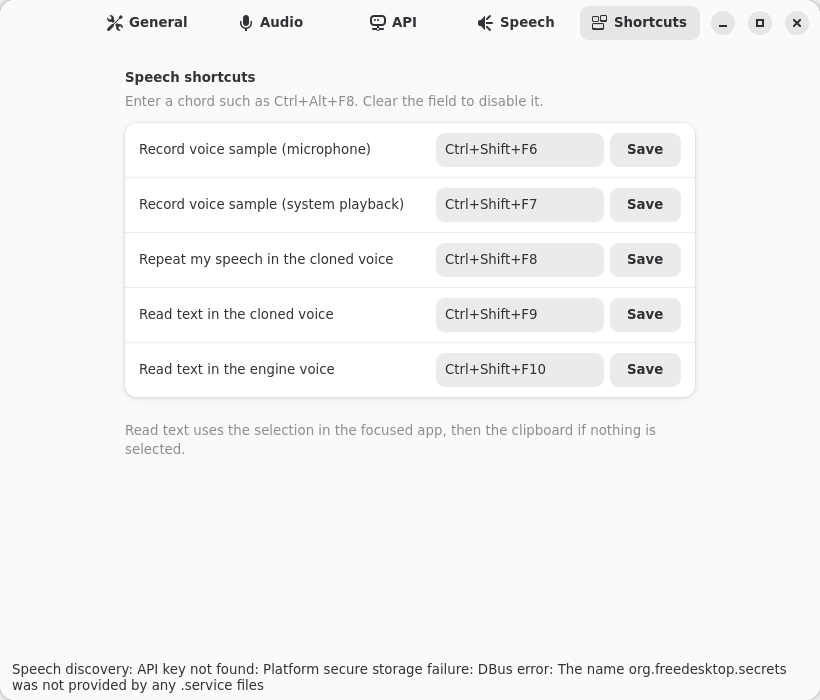
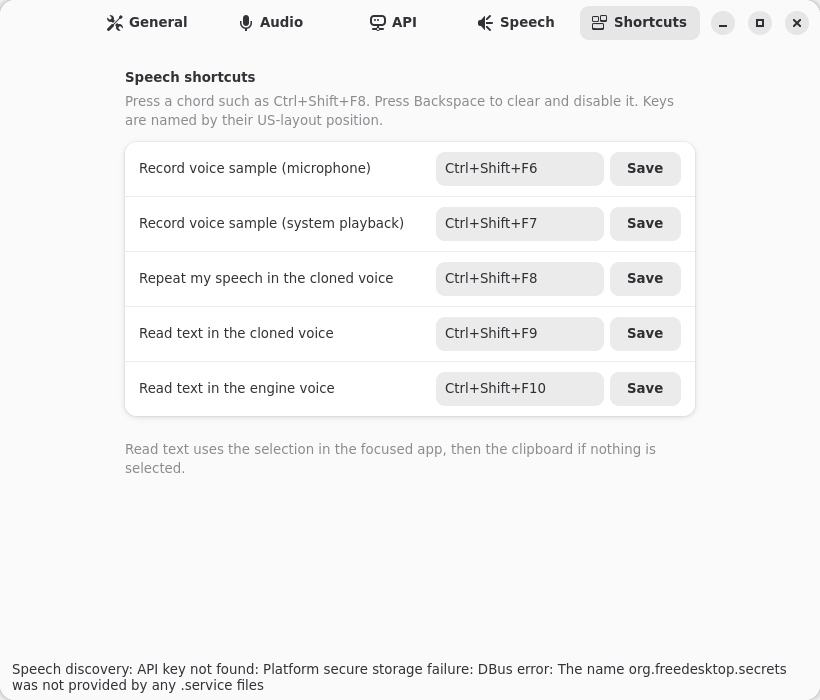
gnome: settings review fixes Shortcut hints say to press Ctrl+Shift+F8 (Ctrl+Alt+F-keys switch VTs) and that keys are named by US-layout position; Shift+Tab moves focus; a load started for an earlier daemon stops, and a failed load shows the error instead of empty pages; waveform frames are dropped 

diff --git a/apps/gnome-settings/src/ui/mod.rs b/apps/gnome-settings/src/ui/mod.rs
@@ -75,6 +75,8 @@ pub(super) struct Ui {
     /// Set while widgets are filled from settings, so their change handlers stay quiet.
     updating: Cell<bool>,
     first_presence: Cell<bool>,
+    /// Counts daemon arrivals and departures; a `load` started for an earlier one stops.
+    presence: Cell<u64>,
     screenshots: Option<PathBuf>,
     general: general::Page,
     audio: audio::Page,
@@ -153,6 +155,7 @@ impl Ui {
             field_focus: Cell::new(false),
             updating: Cell::new(false),
             first_presence: Cell::new(true),
+            presence: Cell::new(0),
             screenshots,
             general,
             audio,
@@ -248,8 +251,11 @@ impl Ui {
         };
         *self.client.borrow_mut() = Some(client);
         while let Some(message) = incoming.recv().await {
+            if let Incoming::Present(_) = message {
+                self.presence.set(self.presence.get() + 1);
+            }
             match message {
-                Incoming::Present(true) => spawn(self.clone().load()),
+                Incoming::Present(true) => spawn(self.clone().load(self.presence.get())),
                 Incoming::Present(false) => {
                     self.show_absent();
                     if self.first_presence.replace(false) {
@@ -274,24 +280,37 @@ impl Ui {
         }
     }
 
-    async fn load(self: Rc<Self>) {
+    async fn load(self: Rc<Self>, presence: u64) {
         self.first_presence.set(false);
         let Some(client) = self.client() else { return };
+        let current = || self.presence.get() == presence;
         let mut settings = client.get_settings().await;
         for _ in 0..50 {
-            if !matches!(&settings, Err(error) if error == STARTING) {
+            if !current() || !matches!(&settings, Err(error) if error == STARTING) {
                 break;
             }
             glib::timeout_future(Duration::from_millis(200)).await;
             settings = client.get_settings().await;
         }
+        if !current() {
+            return;
+        }
         match settings {
             Ok(settings) => *self.settings.borrow_mut() = settings,
-            Err(error) => self.set_status(&error),
+            // Pages filled from an empty cache would offer defaults as the saved values.
+            Err(error) => {
+                self.show_absent();
+                self.start.set_sensitive(false);
+                self.absent.set_description(Some(&error));
+                return;
+            }
         }
         self.drafts.borrow_mut().clear();
         self.catalog.borrow_mut().invalidate();
         let status = client.status().await.unwrap_or_default();
+        if !current() {
+            return;
+        }
         self.preview.set(status == PREVIEW);
         if !status.is_empty() && status != "ok" {
             self.set_status(&status);
@@ -303,6 +322,9 @@ impl Ui {
         shortcuts::fill(&self);
         api::refresh_hint(&self).await;
         audio::refresh_microphones(&self).await;
+        if !current() {
+            return;
+        }
         self.root.set_visible_child_name("settings");
         self.switcher.set_visible(true);
         self.update_capture();

diff --git a/apps/gnome-settings/src/form.rs b/apps/gnome-settings/src/form.rs
@@ -103,12 +103,13 @@ pub(crate) fn languages_summary(settings: &Settings) -> String {
     }
 }
 
-/// The selected languages after checking or unchecking one; a new one goes last.
-pub(crate) fn toggle_language(values: &[String], code: &str, on: bool) -> Vec<String> {
-    let mut values: Vec<String> = values.iter().filter(|v| *v != "auto" && *v != code).cloned().collect();
-    if on {
-        values.push(code.into());
-    }
+/// The selected languages after a change in the list, ordered as Windows does: languages
+/// hidden by the search filter keep their place, then the checked visible ones follow in
+/// list order. `visible` and `checked` are in list order.
+pub(crate) fn selected_languages(current: &[String], visible: &[&str], checked: &[&str]) -> Vec<String> {
+    let mut values: Vec<String> =
+        current.iter().filter(|v| *v != "auto" && !visible.contains(&v.as_str())).cloned().collect();
+    values.extend(checked.iter().map(|c| c.to_string()));
     values
 }
 
@@ -452,7 +453,7 @@ mod tests {
         block_on(async {
             persist(&fake, "auto_start", bool_value(true)).await.unwrap();
             persist(&fake, "sound_effects_enabled", bool_value(false)).await.unwrap();
-            let languages = toggle_language(&languages(&stored), "fr", true);
+            let languages = selected_languages(&languages(&stored), &["en", "fr"], &["en", "fr"]);
             persist(&fake, "languages", &languages_value(&languages)).await.unwrap();
             assert_eq!(save_shortcut(&fake, &stored, "hotkey", " ctrl+shift+f8 ").await.unwrap(), "Ctrl+Shift+F8");
         });
@@ -515,10 +516,14 @@ mod tests {
         let auto = settings(&[("languages", r#"["auto"]"#)]);
         assert!(auto_detect(&auto));
         assert_eq!(languages_summary(&auto), "Auto-detect");
-        assert_eq!(toggle_language(&languages(&auto), "fr", true), ["fr"]);
+        assert_eq!(selected_languages(&languages(&auto), &["en", "fr"], &["fr"]), ["fr"]);
         let two = settings(&[("languages", r#"["fr","en"]"#)]);
         assert_eq!(languages_summary(&two), "fr, en");
-        assert_eq!(toggle_language(&languages(&two), "fr", false), ["en"]);
+        assert_eq!(selected_languages(&languages(&two), &["en", "fr"], &["en"]), ["en"]);
+        // Filtered to French: English is hidden and keeps its place ahead of the visible ones.
+        let three = settings(&[("languages", r#"["fr","en","de"]"#)]);
+        assert_eq!(selected_languages(&languages(&three), &["fr"], &["fr"]), ["en", "de", "fr"]);
+        assert_eq!(selected_languages(&languages(&three), &["en", "de", "fr"], &["en", "fr"]), ["en", "fr"]);
         assert!(language_matches("fr", "French", "fren"));
         assert!(language_matches("yue", "Cantonese", "yu"));
         assert!(!language_matches("fr", "French", "german"));

diff --git a/apps/gnome-settings/src/chord.rs b/apps/gnome-settings/src/chord.rs
@@ -25,23 +25,8 @@ fn is_modifier(key: Key) -> bool {
     matches!(key, Key::Ctrl | Key::Alt | Key::Shift | Key::Super)
 }
 
-fn token(key: Key) -> String {
-    match key {
-        Key::Ctrl => "Ctrl".into(),
-        Key::Alt => "Alt".into(),
-        Key::Shift => "Shift".into(),
-        Key::Super => "Win".into(),
-        Key::Space => "Space".into(),
-        Key::Enter => "Enter".into(),
-        Key::Tab => "Tab".into(),
-        Key::Backspace => "Backspace".into(),
-        Key::Char(c) => (c as char).to_string(),
-        Key::F(n) => format!("F{n}"),
-    }
-}
-
 fn chord<'a>(keys: impl Iterator<Item = &'a Key>) -> Recorded {
-    let text = keys.map(|k| token(*k)).collect::<Vec<_>>().join("+");
+    let text = keys.map(|k| k.name()).collect::<Vec<_>>().join("+");
     match Chord::parse(&text) {
         Ok(chord) => Recorded::Chord(chord.display()),
         Err(error) => Recorded::Invalid(error),
@@ -49,9 +34,10 @@ fn chord<'a>(keys: impl Iterator<Item = &'a Key>) -> Recorded {
 }
 
 impl ChordRecorder {
-    /// True while a modifier is down, so the caller lets a bare Tab move focus.
-    pub fn holds_modifier(&self) -> bool {
-        self.held.iter().any(|k| is_modifier(*k))
+    /// True while a modifier other than Shift is down; Tab and Shift+Tab otherwise move
+    /// focus instead of being recorded.
+    pub fn holds_shortcut_modifier(&self) -> bool {
+        self.held.iter().any(|k| is_modifier(*k) && *k != Key::Shift)
     }
 
     pub fn press(&mut self, key: Key) -> Recorded {
@@ -128,8 +114,11 @@ mod tests {
         recorder.release(Key::Char(b'A'));
         assert_eq!(recorder.press(Key::F(5)), Recorded::Chord("F5".into()));
         recorder.reset();
+        recorder.press(Key::Shift);
+        assert!(!recorder.holds_shortcut_modifier());
+        recorder.release(Key::Shift);
         recorder.press(Key::Ctrl);
-        assert!(recorder.holds_modifier());
+        assert!(recorder.holds_shortcut_modifier());
         assert_eq!(recorder.press(Key::Backspace), Recorded::Chord("Ctrl+Backspace".into()));
     }
 }

diff --git a/apps/gnome-settings/src/ui/shortcuts.rs b/apps/gnome-settings/src/ui/shortcuts.rs
@@ -17,7 +17,12 @@ impl Page {
     pub fn new() -> Self {
         let group = adw::PreferencesGroup::builder()
             .title("Speech shortcuts")
-            .description("Enter a chord such as Ctrl+Alt+F8. Clear the field to disable it.")
+            // Windows says "Enter a chord such as Ctrl+Alt+F8"; on Linux Ctrl+Alt+F1..F12
+            // switch virtual terminals, and these fields record keys rather than take text.
+            .description(
+                "Press a chord such as Ctrl+Shift+F8. Press Backspace to clear and disable it. \
+                 Keys are named by their US-layout position.",
+            )
             .build();
         let fields = SPEECH_SHORTCUTS
             .iter()
@@ -78,7 +83,8 @@ pub(super) fn field() -> gtk::Entry {
     field
 }
 
-/// GDK hardware keycodes are evdev codes plus 8 under both Wayland and X11.
+/// GDK hardware keycodes are evdev codes plus 8 under both Wayland and X11. The daemon
+/// reads evdev codes, so a key is stored by its US-layout position whatever the layout.
 fn physical_key(keycode: u32) -> Option<Key> {
     crate::keymap::from_evdev(u16::try_from(keycode.checked_sub(8)?).ok()?)
 }
@@ -104,7 +110,7 @@ pub(super) fn record(ui: &Rc<Ui>, field: &gtk::Entry) {
         let (recorder, show) = (recorder.clone(), show.clone());
         keys.connect_key_pressed(move |_, _, keycode, _| {
             let Some(key) = physical_key(keycode) else { return glib::Propagation::Proceed };
-            if key == Key::Tab && !recorder.borrow().holds_modifier() {
+            if key == Key::Tab && !recorder.borrow().holds_shortcut_modifier() {
                 return glib::Propagation::Proceed;
             }
             let result = recorder.borrow_mut().press(key);

diff --git a/apps/gnome-settings/src/ui/general.rs b/apps/gnome-settings/src/ui/general.rs
@@ -33,7 +33,7 @@ impl Page {
         let save = button("Save");
         let row = adw::ActionRow::builder()
             .title("Push-to-talk hotkey")
-            .subtitle("Hold to dictate; double-press for continuous recording.")
+            .subtitle("Hold to dictate; double-press for continuous recording. Keys are named by their US-layout position.")
             .build();
         row.add_suffix(&hotkey);
         row.add_suffix(&save);
@@ -141,13 +141,18 @@ fn open_languages(ui: &Rc<Ui>) {
         })
     };
     for row in rows.iter() {
-        let (code, selected, filling, auto, save) =
-            (row.code, selected.clone(), filling.clone(), auto.clone(), save.clone());
-        row.check.connect_toggled(move |check| {
+        let (all, selected, filling, auto, save) =
+            // Weak: the rows own this handler.
+            (Rc::downgrade(&rows), selected.clone(), filling.clone(), auto.clone(), save.clone());
+        row.check.connect_toggled(move |_| {
+            let Some(all) = all.upgrade() else { return };
             if filling.get() {
                 return;
             }
-            let values = form::toggle_language(&selected.borrow(), code, check.is_active());
+            let visible: Vec<&LanguageRow> = all.iter().filter(|r| r.row.is_visible()).collect();
+            let codes: Vec<&str> = visible.iter().map(|r| r.code).collect();
+            let checked: Vec<&str> = visible.iter().filter(|r| r.check.is_active()).map(|r| r.code).collect();
+            let values = form::selected_languages(&selected.borrow(), &codes, &checked);
             *selected.borrow_mut() = values.clone();
             filling.set(true);
             auto.set_active(values.is_empty());

diff --git a/apps/gnome/src/dbus/app/tests.rs b/apps/gnome/src/dbus/app/tests.rs
@@ -253,6 +253,34 @@ async fn private_bus_round_trip() {
         }
     };
     tokio::time::timeout(std::time::Duration::from_secs(5), released).await.unwrap();
+
+    let releases = || fake.calls.lock().unwrap().iter().filter(|c| *c == "capture false").count();
+    let settle = || tokio::time::sleep(std::time::Duration::from_millis(300));
+    let client = |connection: zbus::Connection| async move {
+        let proxy = zbus::Proxy::new(&connection, APP_BUS_NAME, APP_PATH, "com.dictto.App1").await.unwrap();
+        (connection, proxy)
+    };
+
+    // A second sender's `true` replaces the first sender's watcher: the first leaving
+    // does not end the second's capture.
+    let (first, first_proxy) = client(zbus::Connection::session().await.unwrap()).await;
+    let (second, second_proxy) = client(zbus::Connection::session().await.unwrap()).await;
+    let () = first_proxy.call("SetHotkeyCapture", &(true,)).await.unwrap();
+    let () = second_proxy.call("SetHotkeyCapture", &(true,)).await.unwrap();
+    let before = releases();
+    drop(first_proxy);
+    first.close().await.unwrap();
+    settle().await;
+    assert_eq!(releases(), before);
+    assert_eq!(*fake.calls.lock().unwrap().last().unwrap(), "capture true");
+
+    // A `false` stops the watcher: leaving afterwards releases nothing more.
+    let () = second_proxy.call("SetHotkeyCapture", &(false,)).await.unwrap();
+    assert_eq!(releases(), before + 1);
+    drop(second_proxy);
+    second.close().await.unwrap();
+    settle().await;
+    assert_eq!(releases(), before + 1);
 }
 
 #[test]

diff --git a/crates/dictto-core/src/speech/mod.rs b/crates/dictto-core/src/speech/mod.rs
@@ -54,6 +54,10 @@ pub struct SpeechPlatform {
 /// Speech state registered on the host next to `CoreState` by apps with speech.
 /// Derefs to `CoreState` so speech code reads shared fields through one handle; the
 /// `speech` field is named apart from `CoreState::platform` so the deref never hides it.
+/// Folder under the data dir holding voice samples and recent reads; the settings
+/// windows open it.
+pub const AUDIO_DIR: &str = "Speech Audio";
+
 pub struct SpeechState {
     core: Arc<CoreState>,
     pub speech: SpeechPlatform,
@@ -64,7 +68,7 @@ pub struct SpeechState {
 
 impl SpeechState {
     pub fn new(core: Arc<CoreState>, data_dir: &Path, platform: SpeechPlatform) -> Result<Self, String> {
-        let audio_dir = std::path::absolute(data_dir.join("Speech Audio")).map_err(|e| e.to_string())?;
+        let audio_dir = std::path::absolute(data_dir.join(AUDIO_DIR)).map_err(|e| e.to_string())?;
         let cache = cache::Cache::new(audio_dir.clone(), platform.cache_files)
             .map_err(|e| log::warn!("Could not open speech audio folder: {e}"))
             .ok();

diff --git a/apps/gnome-settings/src/bus.rs b/apps/gnome-settings/src/bus.rs
@@ -123,7 +123,9 @@ impl Client {
             });
             tokio::spawn(async move {
                 while let Some(signal) = events.next().await {
-                    if let Ok(args) = signal.args() {
+                    let Ok(args) = signal.args() else { continue };
+                    // The recording bar's frames arrive many times a second; no page uses them.
+                    if args.name != dictto_core::events::WAVEFORM_DATA {
                         let _ = incoming.send(Incoming::Event(args.name, args.payload_json));
                     }
                 }

diff --git a/apps/gnome-settings/src/ui/speech.rs b/apps/gnome-settings/src/ui/speech.rs
@@ -220,9 +220,8 @@ pub(super) fn connect(ui: &Rc<Ui>) {
     page.open_folder.connect_clicked(move |_| owner.set_status(&open_audio_folder()));
 }
 
-/// The core keeps samples and generated speech in "Speech Audio" under the data dir.
 fn open_audio_folder() -> String {
-    let folder = crate::paths::data_dir().join("Speech Audio");
+    let folder = crate::paths::data_dir().join(dictto_core::speech::AUDIO_DIR);
     if let Err(error) = std::fs::create_dir_all(&folder) {
         return format!("Could not create the audio folder: {error}");
     }

diff --git a/apps/gnome/src/dbus/app.rs b/apps/gnome/src/dbus/app.rs
@@ -111,6 +111,7 @@ impl<B: AppBackend> AppService<B> {
     }
 
     /// `owner` is the caller turning capture on; capture ends when it leaves the bus.
+    /// Capture is one flag, so the last caller wins: only its departure is watched.
     fn set_capture(&self, active: bool, owner: Option<(zbus::Connection, OwnedUniqueName)>) {
         self.backend.set_hotkey_capture(active);
         let watch = owner.filter(|_| active).map(|(connection, name)| {

diff --git a/crates/dictto-core/src/keys.rs b/crates/dictto-core/src/keys.rs
@@ -26,7 +26,8 @@ impl Key {
         }
     }
 
-    fn name(self) -> String {
+    /// The token used in stored shortcuts (`Win` for Super, `F8`, `A`).
+    pub fn name(self) -> String {
         match self {
             Key::Ctrl => "Ctrl".into(), Key::Alt => "Alt".into(), Key::Shift => "Shift".into(),
             Key::Super => "Win".into(), Key::Space => "Space".into(), Key::Enter => "Enter".into(),
